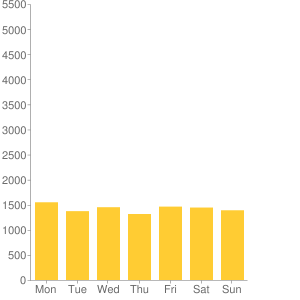
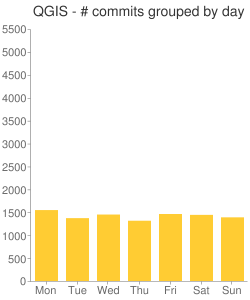
Styling day graphs

Changed region(s): [[0.0, 0.0, 0.98, 0.99]]

diff --git a/commits_grouped_by_day.py b/commits_grouped_by_day.py
@@ -5,12 +5,13 @@ import os
 from pygooglechart import GroupedVerticalBarChart, Axis
 
 datafile = sys.argv[1]
+name = os.path.basename(datafile)
 
 commitsfile = open(datafile, 'r')
 data_array = []
 legend_array = []
 
-chart = GroupedVerticalBarChart(300, 300,
+chart = GroupedVerticalBarChart(250, 300,
                                 y_range=(0, 6000))
 
 #chart.set_bar_width(25)
@@ -28,8 +29,8 @@ chart.add_data(data_array)
 chart.set_axis_labels('x', ['Mon', 'Tue', 'Wed', 'Thu', 'Fri', 'Sat', 'Sun'])
 chart.set_axis_labels('y', range(0, 6000, 500))
 
+chart.set_title(name.split('.')[0].upper() + " - # commits grouped by day")
 print chart.get_url()
 
-name = os.path.basename(datafile)
 chart.download('images/commits_by_day_'+str(name.split('.')[0])+'.png')
 
